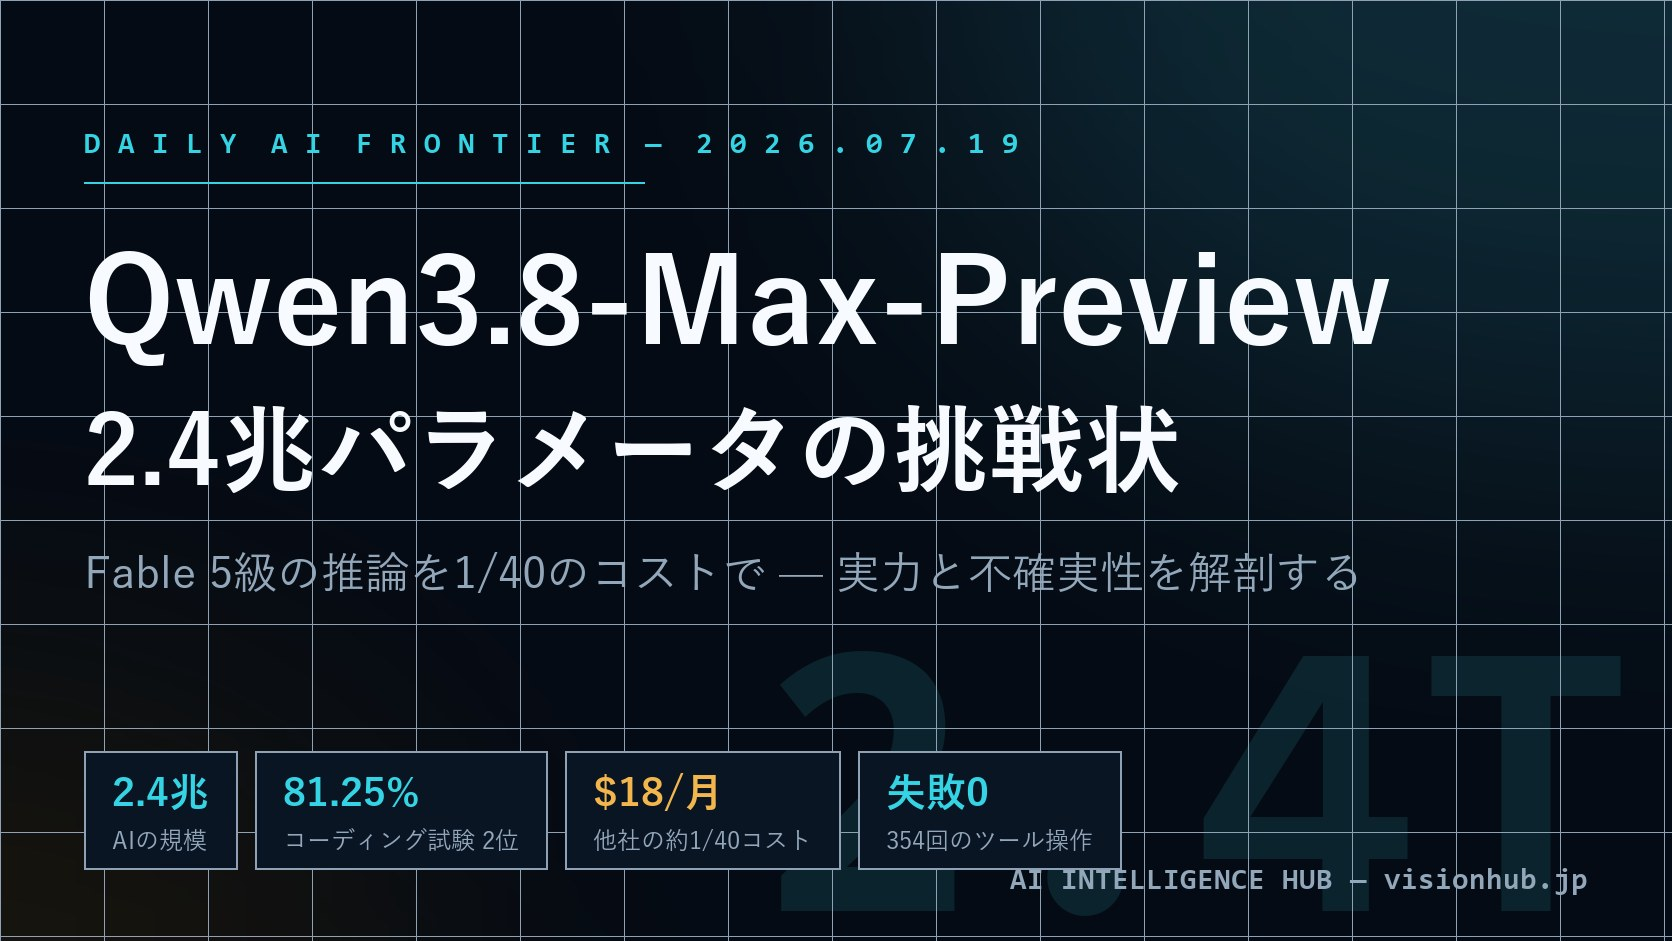
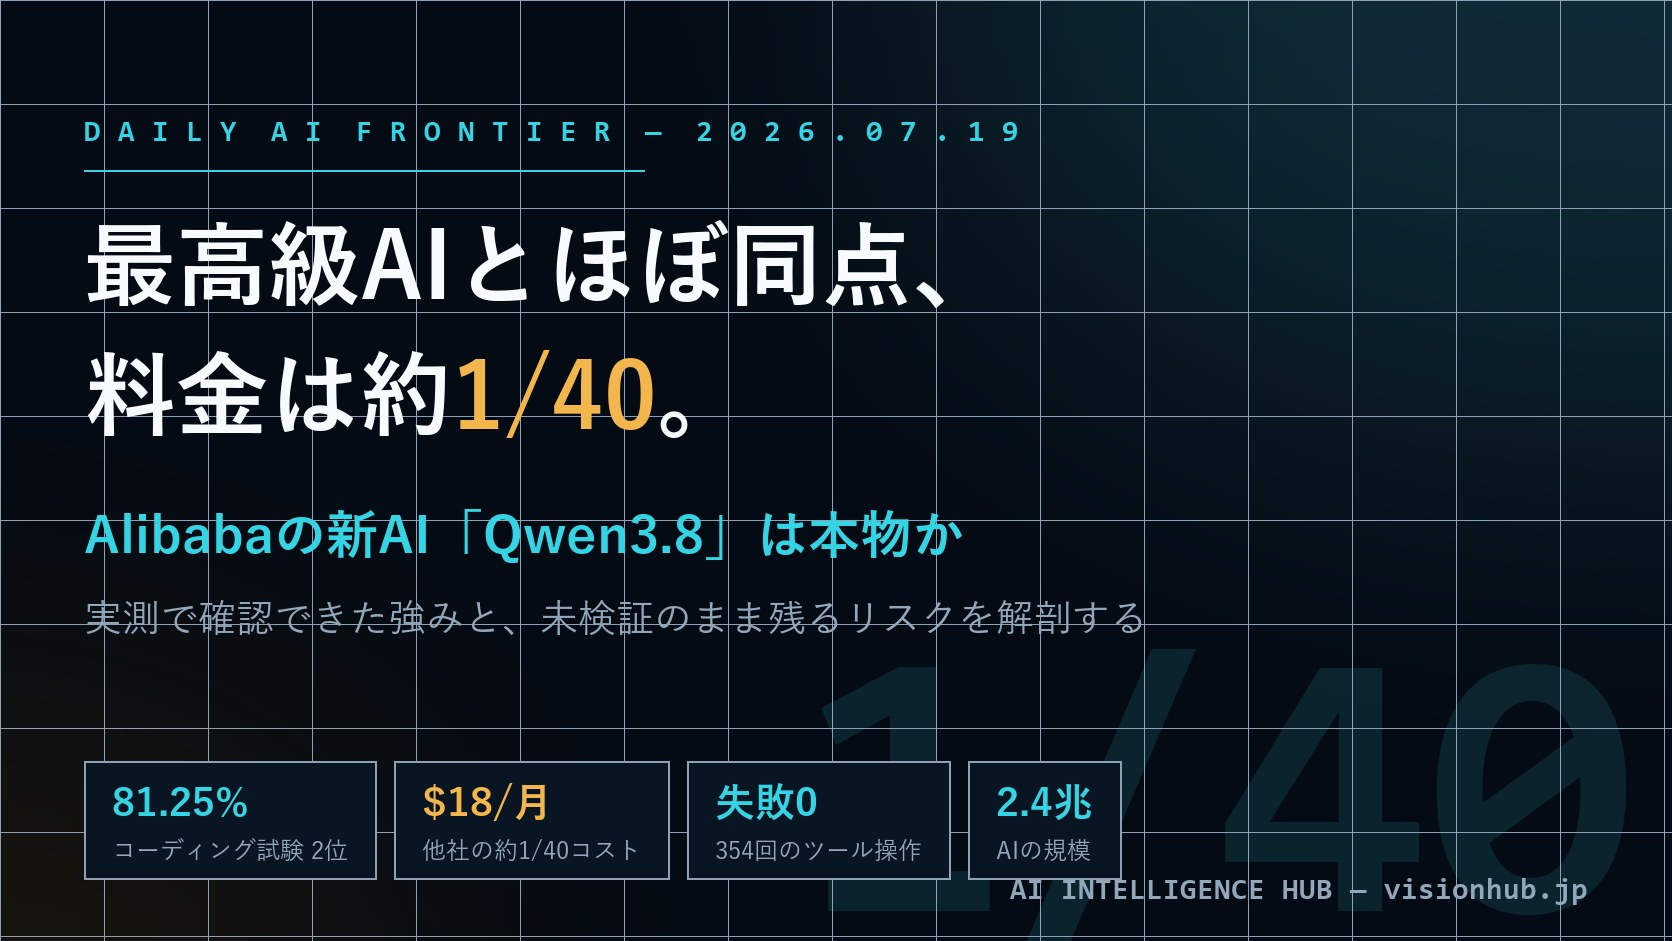
fix(slides): lead the 07-19 deck with its message, not the product name
"Qwen3.8-Max-Preview — 2.4兆パラメータの挑戦状" told readers nothing
without prior context. Title, lead, all SEO metadata, the cover art and
the hub featured card now state the story itself: near-parity with the
top model, ~1/40 the price, and whether the claim holds ("最高級AIと
ほぼ同点、料金は約1/40。Alibabaの新AI「Qwen3.8」は本物か").
The newsstand hero and 3-line brief regenerate from the new metadata.

diff --git a/presentations/day_slides/day_slide_2026_07_19.html b/presentations/day_slides/day_slide_2026_07_19.html
@@ -3,26 +3,26 @@
 <head>
   <meta charset="utf-8">
   <meta name="viewport" content="width=device-width, initial-scale=1">
-  <title>Qwen3.8-Max-Preview 徹底分析 — 2.4兆パラメータの挑戦状 | 2026-07-19</title>
-  <meta name="description" content="Qwen3.8-Max-Previewを、2.4兆パラメータのSparse MoE、常時稼働のThinkingモード、Fable 5・GPT-5.6 Sol・Kimi K3との比較、Token Planのコスト戦略、オープンウェイト化の影響、導入3ステップの観点から整理する。">
+  <title>Alibabaの新AI「Qwen3.8」は本物か — 最高級AIとほぼ同点、料金は約1/40 | 2026-07-19</title>
+  <meta name="description" content="コーディング試験で首位のClaude Fable 5とほぼ同点、料金は約1/40 — Alibabaの新AI「Qwen3.8-Max-Preview」の主張を検証する。実測で確認できた強みと、未公開のまま残るリスクを整理し、いま試す価値があるかを判定する。">
   <link rel="icon" href="data:,">
   <link rel="canonical" href="https://visionhub.jp/presentations/day_slides/day_slide_2026_07_19.html">
   <meta property="og:type" content="article">
   <meta property="og:site_name" content="AI Intelligence Hub">
-  <meta property="og:title" content="Qwen3.8-Max-Preview 徹底分析 — 2.4兆パラメータの挑戦状 | 2026-07-19">
-  <meta property="og:description" content="Qwen3.8-Max-Previewを、2.4兆パラメータのSparse MoE、常時稼働のThinkingモード、Fable 5・GPT-5.6 Sol・Kimi K3との比較、Token Planのコスト戦略、オープンウェイト化の影響、導入3ステップの観点から整理する。">
+  <meta property="og:title" content="Alibabaの新AI「Qwen3.8」は本物か — 最高級AIとほぼ同点、料金は約1/40 | 2026-07-19">
+  <meta property="og:description" content="コーディング試験で首位のClaude Fable 5とほぼ同点、料金は約1/40 — Alibabaの新AI「Qwen3.8-Max-Preview」の主張を検証する。実測で確認できた強みと、未公開のまま残るリスクを整理し、いま試す価値があるかを判定する。">
   <meta property="og:url" content="https://visionhub.jp/presentations/day_slides/day_slide_2026_07_19.html">
   <meta property="og:image" content="https://visionhub.jp/presentations/day_slides/images/0719/cover.jpg">
   <meta name="twitter:card" content="summary_large_image">
-  <meta name="twitter:title" content="Qwen3.8-Max-Preview 徹底分析 — 2.4兆パラメータの挑戦状">
-  <meta name="twitter:description" content="Fable 5級の推論を1/40のコストで。2.4兆パラメータのプレビュー版が示す実力と不確実性を冷静に解剖する。">
+  <meta name="twitter:title" content="Alibabaの新AI「Qwen3.8」は本物か — 性能ほぼ同点・料金1/40">
+  <meta name="twitter:description" content="最高級AIとほぼ同点、料金は約1/40。実測で確認できた強みと未検証のリスクを整理し、いま試す価値があるかを判定する。">
   <meta name="twitter:image" content="https://visionhub.jp/presentations/day_slides/images/0719/cover.jpg">
   <script type="application/ld+json">
   {
     "@context": "https://schema.org",
     "@type": "PresentationDigitalDocument",
-    "headline": "Qwen3.8-Max-Preview 徹底分析 — 2.4兆パラメータの挑戦状",
-    "description": "Qwen3.8-Max-Previewを、2.4兆パラメータのSparse MoE、常時稼働のThinkingモード、Fable 5・GPT-5.6 Sol・Kimi K3との比較、Token Planのコスト戦略、オープンウェイト化の影響、導入3ステップの観点から整理する。",
+    "headline": "Alibabaの新AI「Qwen3.8」は本物か — 最高級AIとほぼ同点、料金は約1/40",
+    "description": "コーディング試験で首位のClaude Fable 5とほぼ同点、料金は約1/40 — Alibabaの新AI「Qwen3.8-Max-Preview」の主張を検証する。実測で確認できた強みと、未公開のまま残るリスクを整理し、いま試す価値があるかを判定する。",
     "datePublished": "2026-07-19",
     "dateModified": "2026-07-19",
     "image": [
@@ -108,9 +108,9 @@
       <span>2026-07-19 / Frontier AI Models</span>
     </nav>
     <section class="hero">
-      <div class="kicker">Daily AI Frontier Slide</div>
-      <h1>Qwen3.8-Max-Preview — 2.4兆パラメータの挑戦状</h1>
-      <p class="lead">Alibaba Cloudが投じた2.4Tパラメータのフロンティアモデルを、アーキテクチャ、Fable 5・GPT-5.6 Sol・Kimi K3との比較、コスト戦略、オープンウェイト化の影響から冷静に解剖し、エンタープライズ導入の実利的な評価を下す。</p>
+      <div class="kicker">今日の深掘り — フロンティアAIモデル</div>
+      <h1>最高級AIとほぼ同点、料金は約1/40。<br>Alibabaの新AI「Qwen3.8」は本物か</h1>
+      <p class="lead">2026年7月19日、Alibaba Cloudが発表した新AIモデル「Qwen3.8-Max-Preview」。コーディング試験では首位のClaude Fable 5とわずか1.25点差、それでいて月額$18と料金は約1/40。この「うますぎる話」のどこまでが実測で確認でき、どこからが未検証の主張なのかを整理し、いま試す価値があるかを判定する。</p>
       <div class="stats-bar" aria-label="キーメトリクス">
         <div class="stat-card"><div class="stat-num">2.4兆</div><div class="stat-label"><b>AIの規模（パラメータ数）</b><br>史上最大級の巨大モデル</div></div>
         <div class="stat-card"><div class="stat-num">81.25%</div><div class="stat-label"><b>コーディング能力テストの得点</b><br>首位のClaude Fable 5（82.5%）と僅差の2位</div></div>

diff --git a/presentations/day_slides_list.html b/presentations/day_slides_list.html
@@ -182,8 +182,8 @@
       <div class="hero-kicker"><span class="dot"></span>LATEST ISSUE — 最新号</div>
       <div class="hero-meta">2026.07.19 SUN / No.353</div>
       <span class="chip" style="color:var(--cat-model);border-color:var(--cat-model)">モデル</span>
-      <h2 class="hero-title">Qwen3.8-Max-Preview 徹底分析 — 2.4兆パラメータの挑戦状</h2>
-      <p class="hero-lead">Qwen3.8-Max-Previewを、2.4兆パラメータのSparse MoE、常時稼働のThinkingモード、Fable 5・GPT-5.6 Sol・Kimi K3との比較、Token Planのコスト戦略、オープンウェイト化の影響、導入3ステップの観点から整理する。</p>
+      <h2 class="hero-title">Alibabaの新AI「Qwen3.8」は本物か — 最高級AIとほぼ同点、料金は約1/40</h2>
+      <p class="hero-lead">コーディング試験で首位のClaude Fable 5とほぼ同点、料金は約1/40 — Alibabaの新AI「Qwen3.8-Max-Preview」の主張を検証する。実測で確認できた強みと、未公開のまま残るリスクを整理し、いま試す価値があるかを判定する。</p>
       <div class="hero-actions">
         <a class="cta" href="https://visionhub.jp/presentations/day_slides/day_slide_2026_07_19.html">この号を読む →</a>
         <span class="read-badge">⏱ 5 MIN READ</span>
@@ -194,9 +194,9 @@
   <section class="brief">
     <div class="brief-card">
       <div class="cmd"><b>$</b> today --summary <span style="color:var(--ink-muted)">// 2026-07-19</span></div>
-      <div class="brief-line"><span class="no">01</span><span class="gt">&gt;</span><span>Qwen3.8-Max-Previewを、2.4兆パラメータのSparse MoE</span></div>
-      <div class="brief-line"><span class="no">02</span><span class="gt">&gt;</span><span>常時稼働のThinkingモード</span></div>
-      <div class="brief-line"><span class="no">03</span><span class="gt">&gt;</span><span>Fable 5・GPT-5.6 Sol・Kimi K3との比較</span></div>
+      <div class="brief-line"><span class="no">01</span><span class="gt">&gt;</span><span>コーディング試験で首位のClaude Fable 5とほぼ同点</span></div>
+      <div class="brief-line"><span class="no">02</span><span class="gt">&gt;</span><span>料金は約1/40 — Alibabaの新AI「Qwen3.8-Max-Preview」の主張を検証する</span></div>
+      <div class="brief-line"><span class="no">03</span><span class="gt">&gt;</span><span>実測で確認できた強みと、未公開のまま残るリスクを整理し、いま試す価値があるかを判定する</span></div>
     </div>
   </section>
 
@@ -272,11 +272,11 @@
   <details class="month-group" data-month="2026-07" open>
     <summary class="month-head"><span class="m">2026.07</span><span class="c"><span class="month-count">19</span> 件</span><span class="line"></span></summary>
     <div class="slides-grid">
-      <a class="card" href="https://visionhub.jp/presentations/day_slides/day_slide_2026_07_19.html" data-cat="model" data-text="qwen3.8-max-preview 徹底分析 — 2.4兆パラメータの挑戦状 qwen3.8-max-previewを、2.4兆パラメータのsparse moe、常時稼働のthinkingモード、fable 5・gpt-5.6 sol・kimi k3との比較、token planのコスト戦略、オープンウェイト化の影響、導入3ステップの観点から整理する。 モデル frontier ai models 2026-07-19" style="--cat:var(--cat-model)">
+      <a class="card" href="https://visionhub.jp/presentations/day_slides/day_slide_2026_07_19.html" data-cat="model" data-text="alibabaの新ai「qwen3.8」は本物か — 最高級aiとほぼ同点、料金は約1/40 コーディング試験で首位のclaude fable 5とほぼ同点、料金は約1/40 — alibabaの新ai「qwen3.8-max-preview」の主張を検証する。実測で確認できた強みと、未公開のまま残るリスクを整理し、いま試す価値があるかを判定する。 モデル frontier ai models 2026-07-19" style="--cat:var(--cat-model)">
         <div class="thumb"><img class="thumb-img" src="day_slides/images/0719/cover.jpg" alt="" loading="lazy" decoding="async"><span class="datebadge">07.19</span></div>
         <div class="body"><span class="chip chip-sm" style="color:var(--cat-model);border-color:var(--cat-model)">モデル</span>
-          <div class="t">Qwen3.8-Max-Preview 徹底分析 — 2.4兆パラメータの挑戦状</div>
-          <div class="d">Qwen3.8-Max-Previewを、2.4兆パラメータのSparse MoE、常時稼働のThinkingモード、Fable 5・GPT-5.6 Sol・Kimi K3との比較、Token Planのコスト戦略、オープンウェイト化の影響</div>
+          <div class="t">Alibabaの新AI「Qwen3.8」は本物か — 最高級AIとほぼ同点、料金は約1/40</div>
+          <div class="d">コーディング試験で首位のClaude Fable 5とほぼ同点、料金は約1/40 — Alibabaの新AI「Qwen3.8-Max-Preview」の主張を検証する。実測で確認できた強みと、未公開のまま残るリスクを整理し、いま試す価値があ</div>
         </div>
       </a>
       <a class="card" href="https://visionhub.jp/presentations/day_slides/day_slide_2026_07_18.html" data-cat="agent" data-text="チャット型aiの終着点 — searchos-v1 searchos-v1が検索進捗を会話履歴から共有状態へ移し、coverage map、evidence graph、failure memory、並列スケジューリングによって網羅的で検証可能な調査を実現する仕組みを整理する。 エージェント ai agent architecture 2026-07-18" style="--cat:var(--cat-agent)">

diff --git a/presentations/day_slides_index.html b/presentations/day_slides_index.html
@@ -655,16 +655,16 @@
             <div class="section-eyebrow">FEATURED</div>
             <h2 class="section-title">最新の3本</h2>
           </div>
-          <p class="section-sub">直近のスライドをハイライト。Qwen3.8-Max-Preview — 2.4兆パ...、Gemini Sparkの実像：24/7エージェントと...、Grok Buildは『黒箱』から『検証可能な開発基盤...など。</p>
+          <p class="section-sub">直近のスライドをハイライト。Alibabaの新AI「Qwen3.8」は本物か —...、Gemini Sparkの実像：24/7エージェントと...、Grok Buildは『黒箱』から『検証可能な開発基盤...など。</p>
         </div>
         <div class="featured-grid">
           <a class="feat-card" href="day_slides/day_slide_2026_07_19.html">
             <div class="feat-tag"><span class="dot"></span>LATEST</div>
             <div class="feat-date">2026/07/19</div>
-            <h3 class="feat-title">Qwen3.8-Max-Preview — 2.4兆パラメータの挑戦状</h3>
+            <h3 class="feat-title">Alibabaの新AI「Qwen3.8」は本物か — 最高級AIとほぼ同点、料金は約1/40</h3>
             <span class="feat-cta">View slide <span class="arr" aria-hidden="true">&rarr;</span></span>
           </a>
-          <a class="feat-card" href="day_slides/day_slide_2026_07_16.html">
+<a class="feat-card" href="day_slides/day_slide_2026_07_16.html">
             <div class="feat-date">2026/07/16</div>
             <h3 class="feat-title">Gemini Sparkの実像：24/7エージェントと日本導入の現在地</h3>
             <span class="feat-cta">View slide <span class="arr" aria-hidden="true">&rarr;</span></span>
@@ -930,8 +930,8 @@
               <span class="month-count">19 件</span>
             </summary>
             <div class="slides-grid">
-              <a class="slide-card" href="day_slides/day_slide_2026_07_19.html"><span class="slide-date">07/19</span><span class="slide-title">Qwen3.8-Max-Preview — 2.4兆パラメータの挑戦状 / Fable 5級の推論を1/40のコストで。2.4兆パラメータの実力と不確実性を解剖する</span></a>
-              <a class="slide-card" href="day_slides/day_slide_2026_07_18.html"><span class="slide-date">07/18</span><span class="slide-title">チャット型AIの終着点 — SearchOS-V1</span></a>
+              <a class="slide-card" href="day_slides/day_slide_2026_07_19.html"><span class="slide-date">07/19</span><span class="slide-title">Alibabaの新AI「Qwen3.8」は本物か — 最高級AIとほぼ同点、料金は約1/40 / 実測で確認できた強みと未検証のリスクを整理し、いま試す価値があるかを判定する</span></a>
+<a class="slide-card" href="day_slides/day_slide_2026_07_18.html"><span class="slide-date">07/18</span><span class="slide-title">チャット型AIの終着点 — SearchOS-V1</span></a>
               <a class="slide-card" href="day_slides/day_slide_2026_07_17.html"><span class="slide-date">07/17</span><span class="slide-title">Kimi K3、2.8兆の衝撃 — 知能の主権は誰が握るのか</span></a>
               <a class="slide-card" href="day_slides/day_slide_2026_07_16.html"><span class="slide-date">07/16</span><span class="slide-title">Gemini Sparkの実像：24/7エージェントと日本導入の現在地</span></a>
               <a class="slide-card" href="day_slides/day_slide_2026_07_15.html"><span class="slide-date">07/15</span><span class="slide-title">Grok Buildは『黒箱』から『検証可能な開発基盤』へ</span></a>
